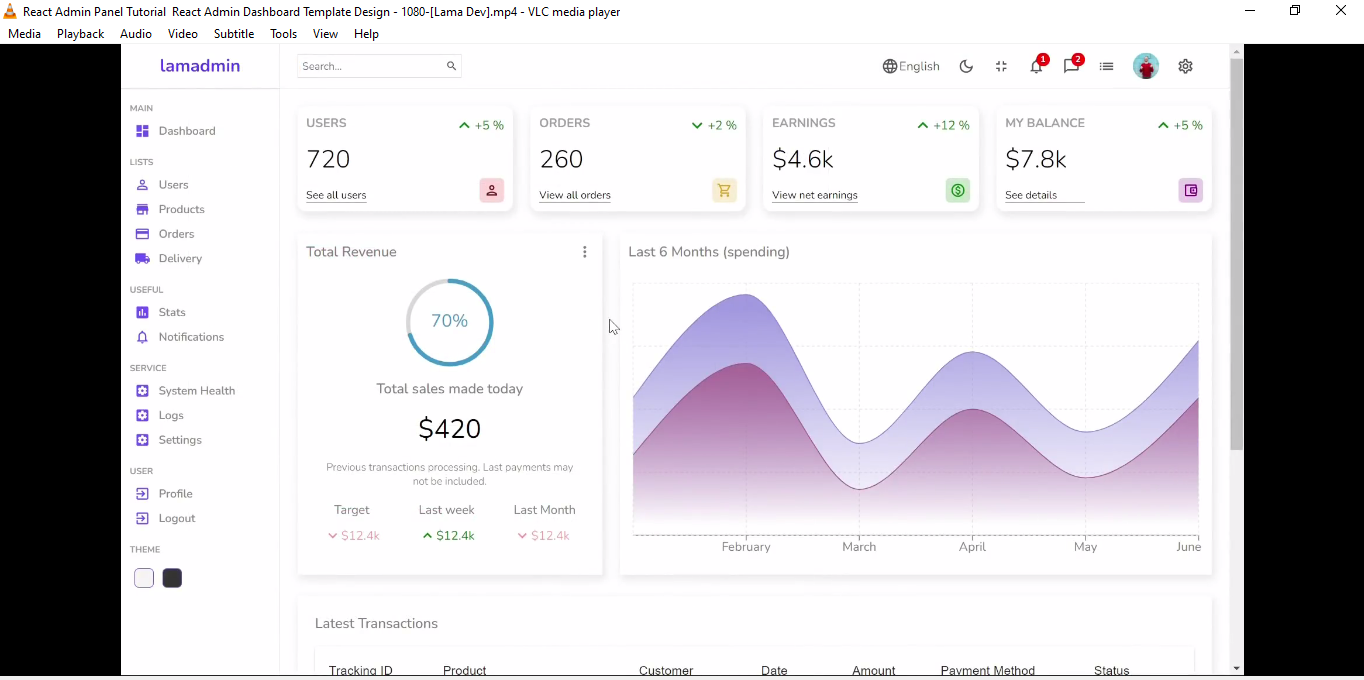
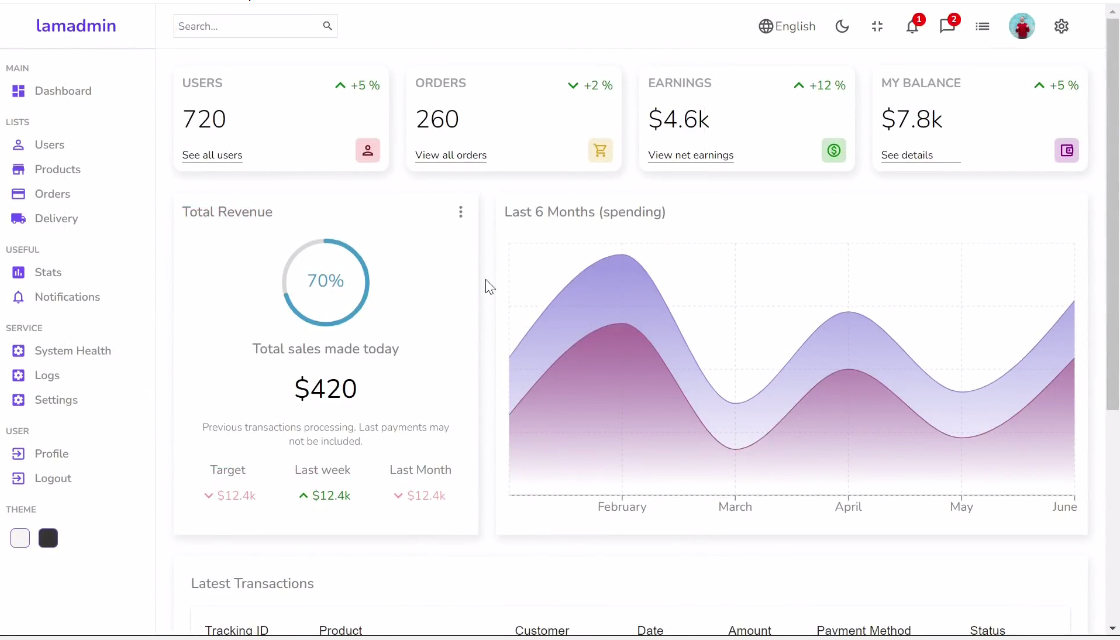
sidebar and navbar design done

diff --git a/src/components/navbar/navbar.scss b/src/components/navbar/navbar.scss
@@ -1,5 +1,10 @@
 /* navbar */
 .navbar {
+  background-image: linear-gradient(
+    to bottom,
+    var(--bgPrimary),
+    var(--bgWhite)
+  );
   width: 100%;
   height: 6rem;
   border-bottom: 0.1rem solid var(--borderSecondary);
@@ -10,21 +15,25 @@
   gap: 0.5rem;
   padding: 0 1rem;
   .searchBox {
-    border: 0.1rem solid var(--borderSecondary);
+    box-shadow: 0px 0px 3px 0px var(--bgSecondary);
     display: flex;
     align-items: center;
     justify-content: space-between;
     padding: 0.5rem 1rem;
-    gap: 1rem;
     height: 60%;
-    width: 25rem;
+    width: 30rem;
     border-radius: 0.5rem;
+    position: relative;
     .searchInput {
       border: none;
       outline: none;
       background-color: transparent;
+      width: 100%;
+      padding-right: 1.5rem;
     }
     .searchIcon {
+      position: absolute;
+      right: 0.2rem;
       font-size: 2rem;
       color: var(--colorSecondary);
     }
@@ -35,7 +44,6 @@
     align-items: center;
     gap: 3rem;
     .iconItem {
-      //   background-color: red;
       cursor: pointer;
       display: flex;
       align-items: center;
@@ -60,7 +68,7 @@
         display: flex;
         align-items: center;
         justify-content: center;
-        font-size: 1.2rem;
+        font-size: 1rem;
         font-weight: 700;
         border-radius: 50%;
         position: absolute;

diff --git a/src/components/sidebar/sidebar.scss b/src/components/sidebar/sidebar.scss
@@ -6,6 +6,11 @@
   height: 100vh;
   /* logo */
   .logo {
+    background-image: linear-gradient(
+      to bottom,
+      var(--bgPrimary),
+      var(--bgWhite)
+    );
     width: 100%;
     height: 6rem;
     border-bottom: 0.1rem solid var(--borderSecondary);
@@ -31,13 +36,15 @@
     padding: 1rem;
     display: flex;
     flex-direction: column;
-    height: calc(100vh - 10rem);
+    height: calc(
+      100vh - var(--logoContainerHeight) - var(--footerIconContainerHeight)
+    );
     overflow-y: scroll;
     overflow-x: hidden;
 
     &::-webkit-scrollbar {
       width: 0.2rem;
-      background: var(--bgPrimary);
+      background: var(--scrollbarPrimary);
     }
 
     &::-webkit-scrollbar-track {
@@ -46,7 +53,7 @@
 
     &::-webkit-scrollbar-thumb {
       border-radius: 15px;
-      background: var(--colorBrand);
+      background: var(--scrollbarSecondary);
     }
     .block {
       text-transform: uppercase;
@@ -80,8 +87,12 @@
 
   /* footerIcons */
   .footerIcons {
-    background-color: var(--bgPrimary);
-    height: 4rem;
+    background-image: linear-gradient(
+      to bottom,
+      var(--bgWhite),
+      var(--bgSecondary)
+    );
+    height: var(--footerIconContainerHeight);
     display: flex;
     align-items: center;
     justify-content: space-evenly;

diff --git a/public/index.html b/public/index.html
@@ -43,6 +43,11 @@
         --bgSecondary: rgba(50, 50, 50, 1);
         --borderPrimary: rgba(150, 150, 150, 1);
         --borderSecondary: rgba(200, 200, 200, 1);
+        --scrollbarPrimary: rgba(150, 150, 150, 1);
+        --scrollbarSecondary: rgba(200, 200, 200, 1);
+
+        --logoContainerHeight: 6rem;
+        --footerIconContainerHeight: 5rem;
       }
     </style>
   </head>
